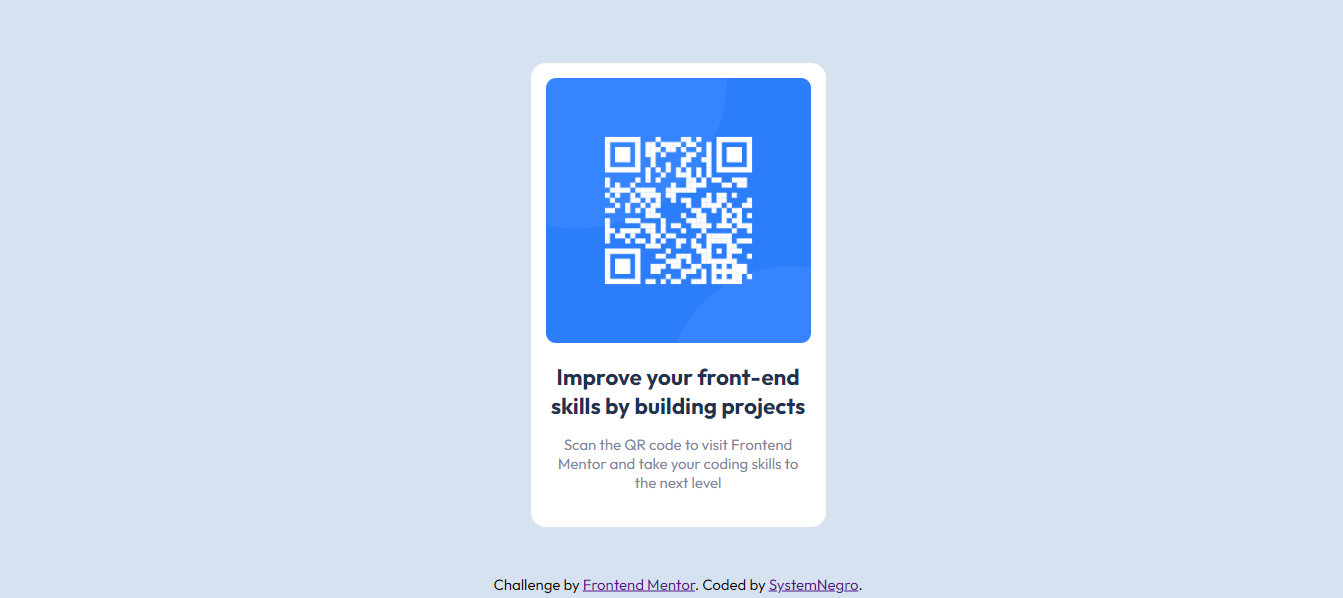
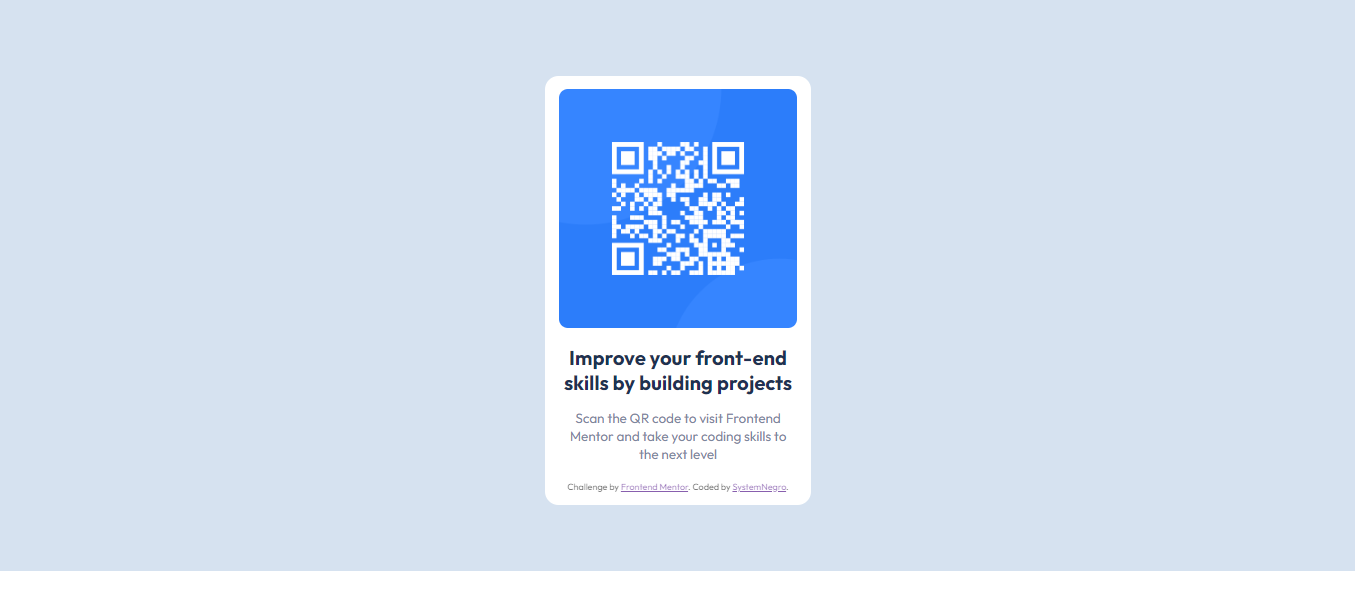
final commit

Changed region(s): [[0.3969, 0.0917, 0.6411, 0.8862], [0.0, 0.9474, 1.0, 1.0]]

diff --git a/index.html b/index.html
@@ -13,12 +13,11 @@
         <img src="images/image-qr-code.png" alt="QR code to frontendmentor.io">
           <h1>Improve your front-end skills by building projects</h2>
           <p>Scan the QR code to visit Frontend Mentor and take your coding skills to the next level</p>
+          <footer>
+              Challenge by <a href="https://www.frontendmentor.io?ref=challenge" target="_blank">Frontend Mentor</a>.
+              Coded by <a href="https://github.com/systemnegro" target="_blank">SystemNegro</a>.
+        </footer>
       </div>
   </main>
-  <footer>
-      Challenge by <a href="https://www.frontendmentor.io?ref=challenge" target="_blank">Frontend Mentor</a>.
-      Coded by <a href="https://github.com/systemnegro" target="_blank">SystemNegro</a>.
-  </footer>
-
 </body>
 </html>

diff --git a/style.css b/style.css
@@ -11,6 +11,7 @@
 *{
     margin: 0;
     padding: 0;
+    box-sizing: border-box;
 }
 body{
     font-family:var(--Font-Outflit);
@@ -44,12 +45,9 @@ p{
     border-radius: 10px;   
 }
 footer{
-    position: absolute;
-    top:97%;
-    left:50%;
-    transform: translate(-50%,-50%);
-    min-width: 400px;
+    font-size: 10px;
     text-align: center;
+    opacity:.7; 
 }
 
 
